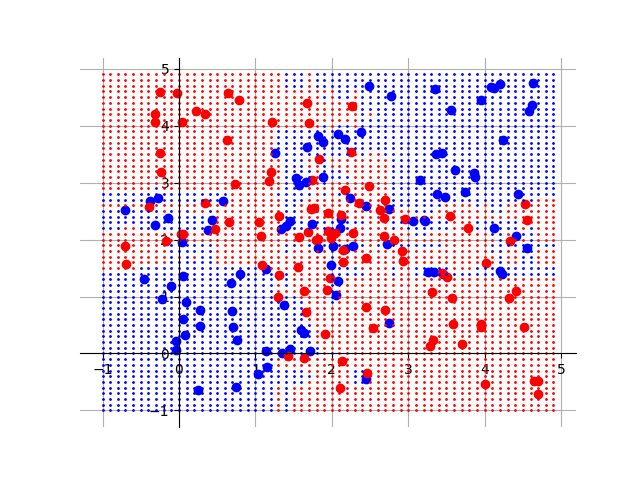
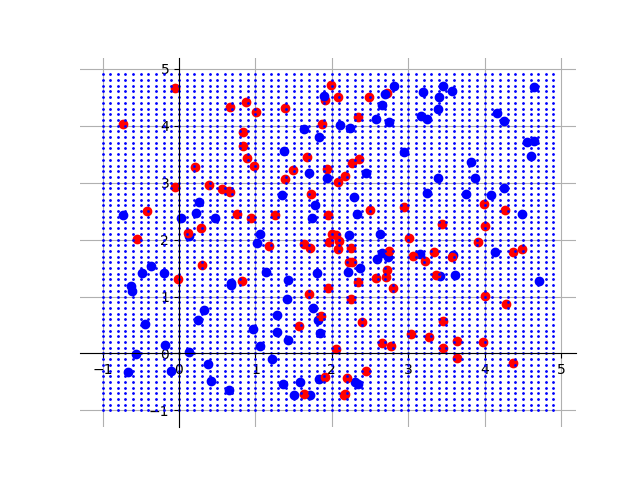
added neural_net_prediction_space

diff --git a/asgmt_005/neural_net_prediction_space.py b/asgmt_005/neural_net_prediction_space.py
@@ -1,0 +1,48 @@
+import sys
+sys.path.append('asgmt_004')
+from artificial_datasets import generate_dataset
+from artificial_datasets import split_into_x_y
+
+from sklearn.neural_network import MLPClassifier
+from sklearn.model_selection import train_test_split
+from sklearn.metrics import accuracy_score
+
+import matplotlib.pyplot as plt
+import numpy as np
+import random
+
+center_points = [[1,1], [1,3], [3,3], [3,1]]
+complete_dataset = generate_dataset(center_points)
+
+x_set, y_set = split_into_x_y(complete_dataset)
+
+x_train, x_test, y_train, y_test = train_test_split(x_set, y_set, test_size=0.5)
+
+
+nn = MLPClassifier(solver='lbfgs', alpha=1e-5, hidden_layer_sizes=(3, 3, 3), activation = "logistic", max_iter = 25000, random_state=1)
+nn.fit(x_train, y_train)
+
+graph = plt.gca()
+for point in complete_dataset:
+    if point[2] == 'x':
+        color = "bo"
+    else:
+        color = "ro"
+    graph.plot(point[0], point[1], color)
+
+for i in np.arange(-1, 5, 0.1):
+    for j in np.arange(-1,5, 0.1):
+        prediction = nn.predict([[i,j]])
+        if prediction == 'x':
+            color = "bo"
+        else:
+            color = "ro"
+        graph.plot(i, j, color, markersize=1)
+
+graph.grid(True)
+graph.spines['left'].set_position('zero')
+graph.spines['right'].set_color('none')
+graph.spines['bottom'].set_position('zero')
+graph.spines['top'].set_color('none')
+plt.savefig("neural_net_prediction_space.png")
+print("done")
